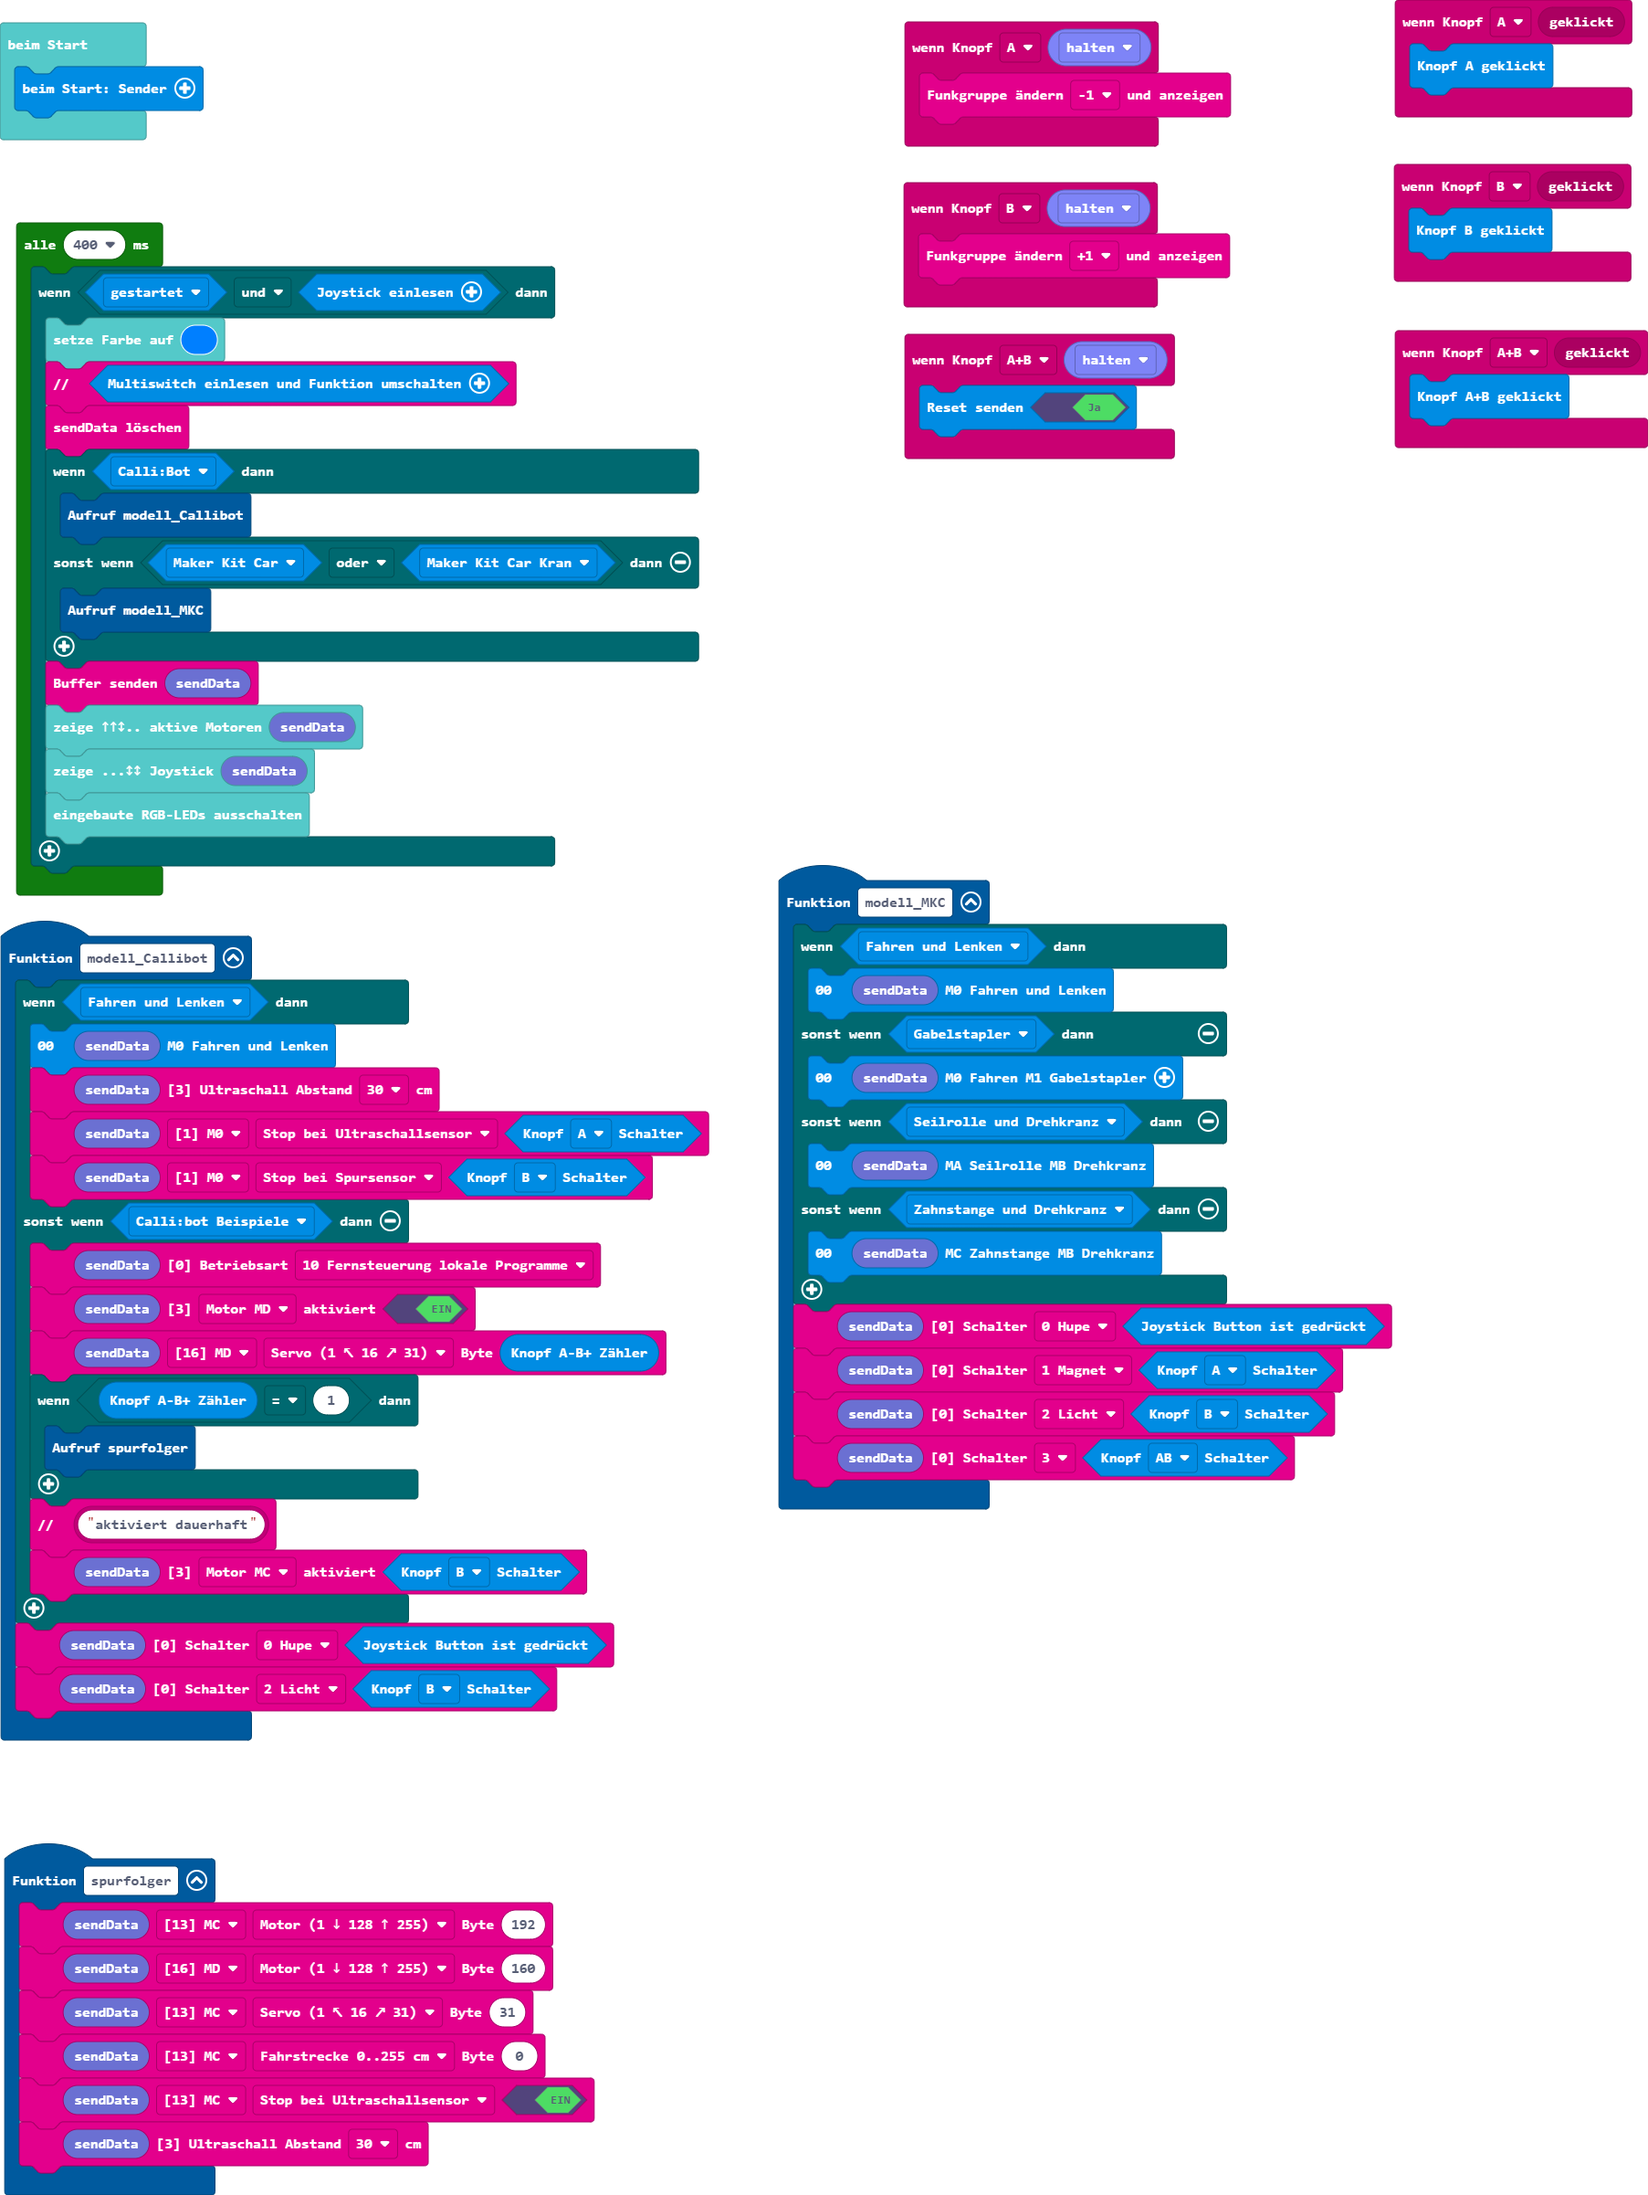
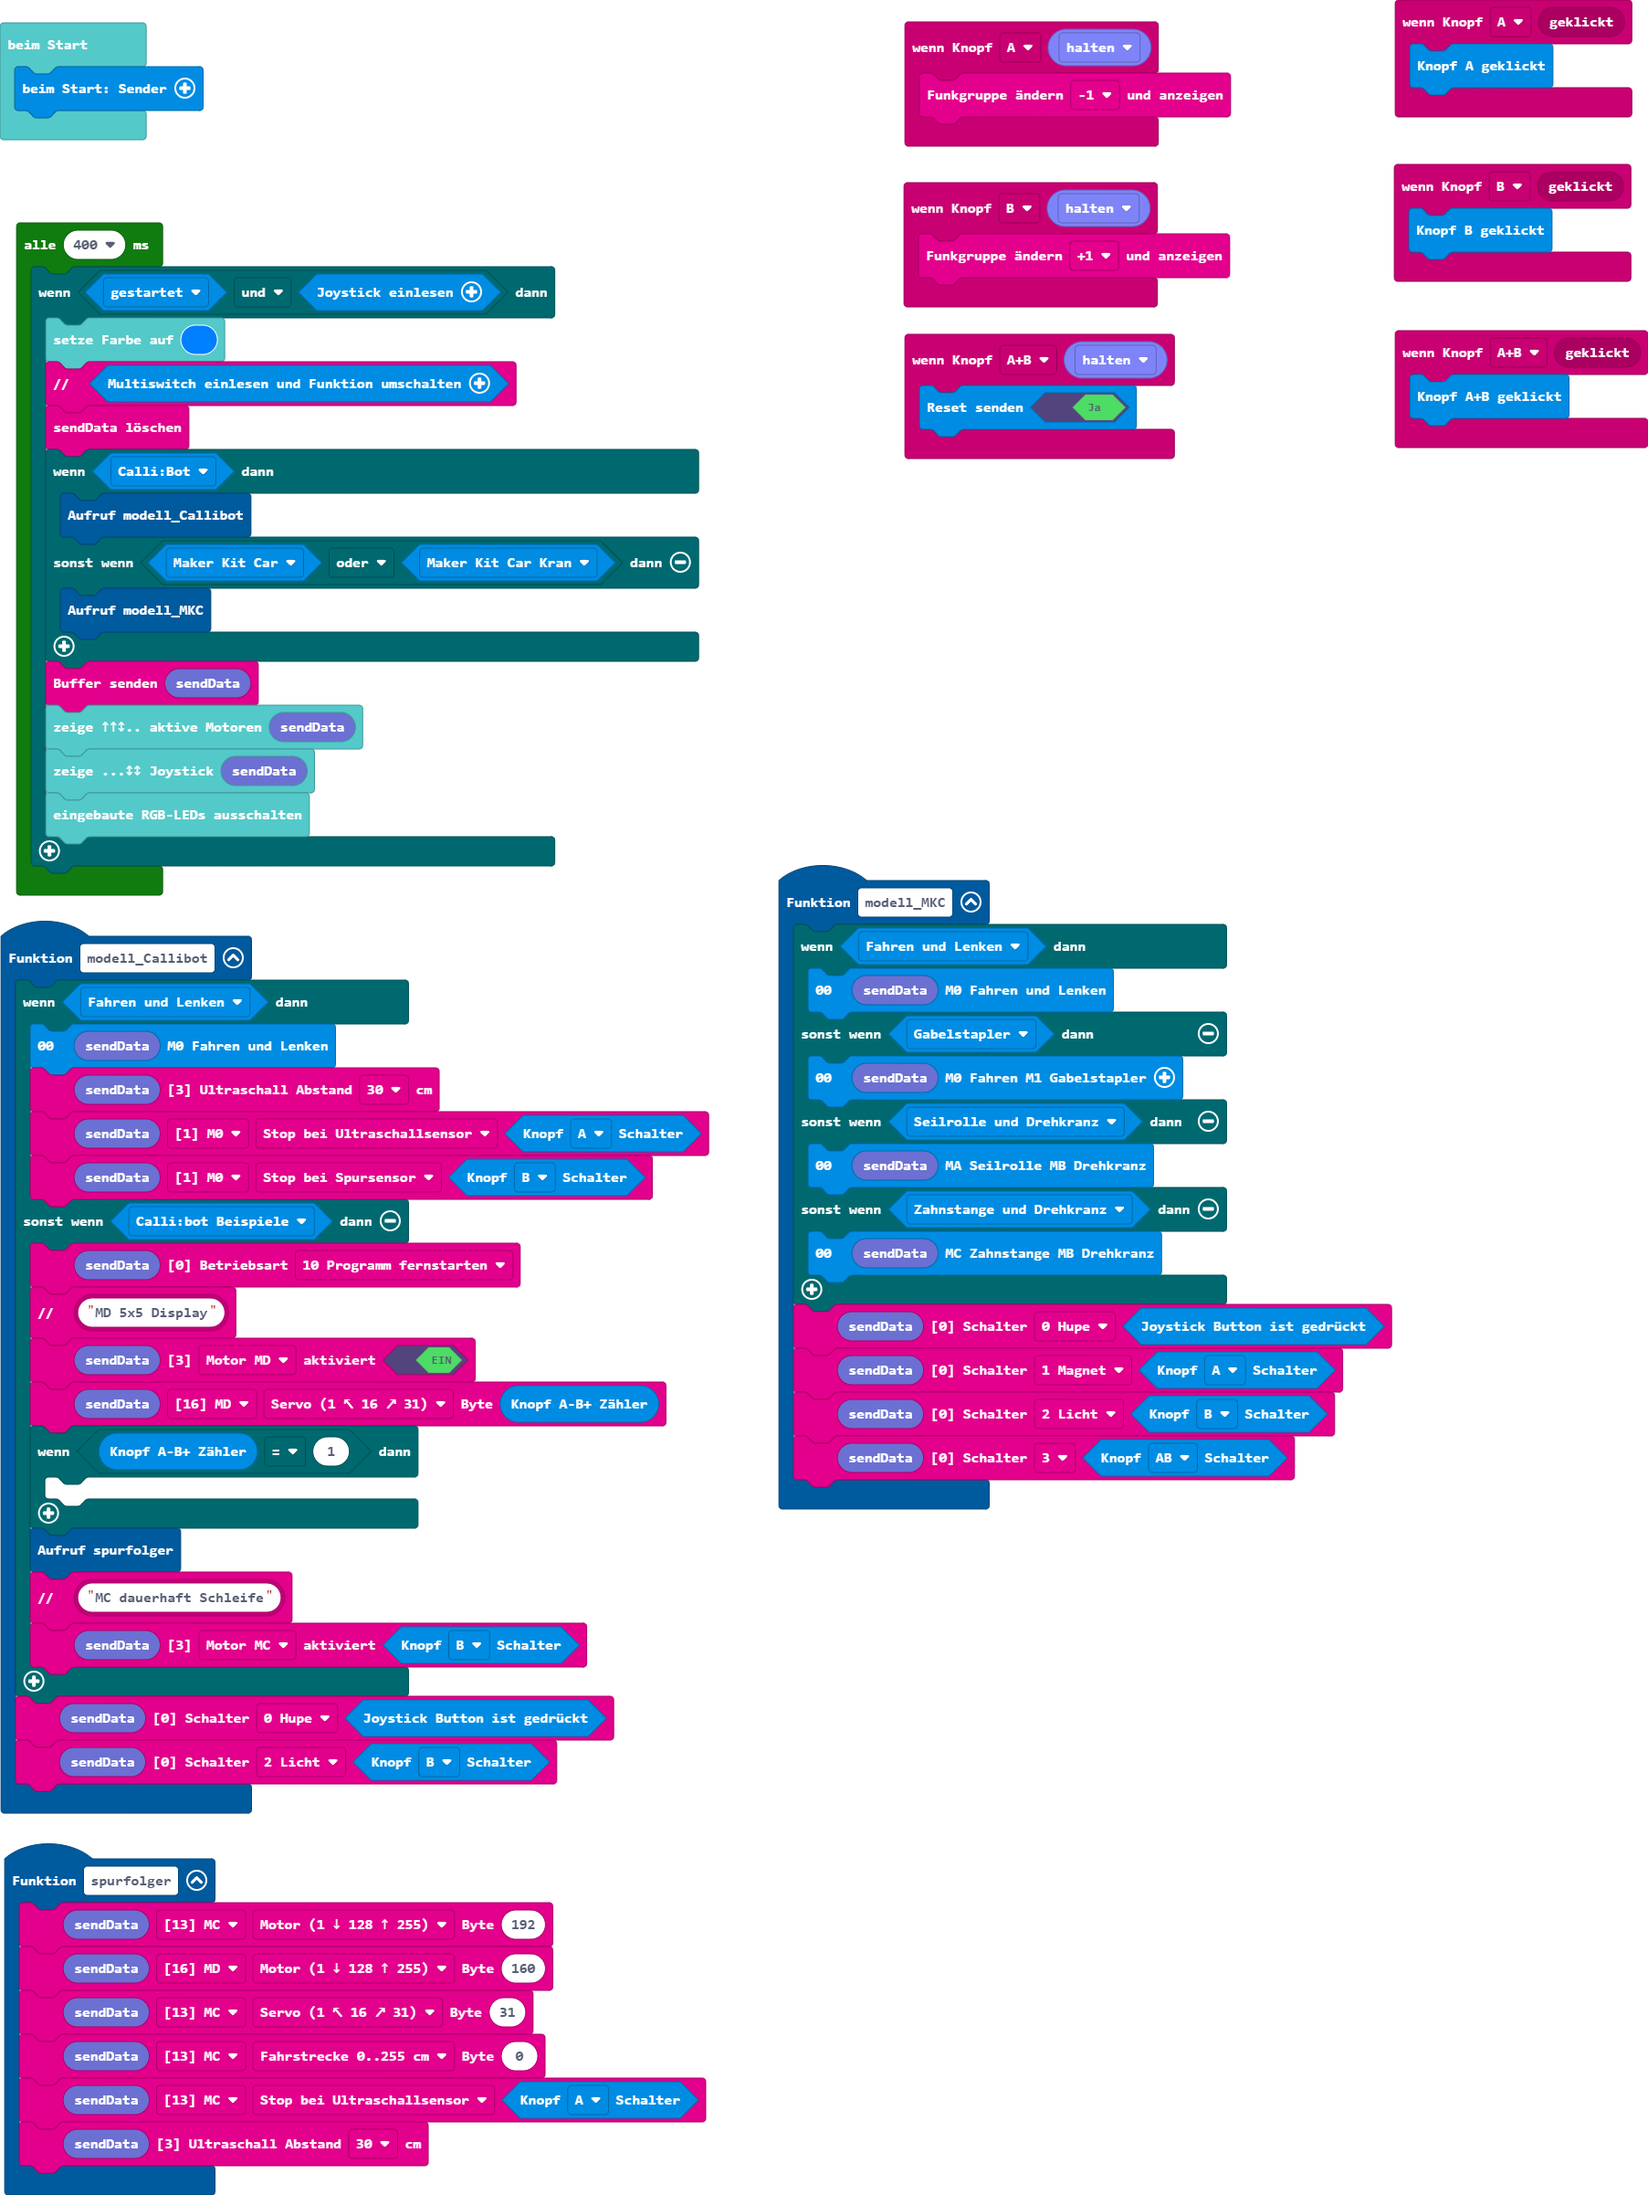
Aktualisiere main.blocks, main.ts

Changed region(s): [[0.0, 0.5618, 0.4033, 0.8427], [0.3102, 0.9363, 0.4343, 0.9675]]

diff --git a/main.ts b/main.ts
@@ -6,12 +6,14 @@ function modell_Callibot () {
         btf.setSensor(btf.btf_sendBuffer19(), btf.eBufferPointer.m0, btf.eSensor.b5Spur, sender.getButtonAB_Switch(sender.eButtonAB_Switch.B))
     } else if (sender.isFunktion(sender.eFunktion.mc_md_callibot_beispiele)) {
         btf.setBetriebsart(btf.btf_sendBuffer19(), btf.e0Betriebsart.p1Lokal)
+        btf.comment(btf.btf_text("MD 5x5 Display"))
         btf.setaktiviert(btf.btf_sendBuffer19(), btf.e3aktiviert.md, true)
         btf.setByte(btf.btf_sendBuffer19(), btf.eBufferPointer.md, btf.eBufferOffset.b1_Servo, sender.getButtonAB_Counter())
         if (sender.getButtonAB_Counter() == 1) {
-            spurfolger()
+        	
         }
-        btf.comment(btf.btf_text("aktiviert dauerhaft"))
+        spurfolger()
+        btf.comment(btf.btf_text("MC dauerhaft Schleife"))
         btf.setaktiviert(btf.btf_sendBuffer19(), btf.e3aktiviert.mc, sender.getButtonAB_Switch(sender.eButtonAB_Switch.B))
     }
     btf.setSchalter(btf.btf_sendBuffer19(), btf.e0Schalter.b0, sender.joystickButtonPosition())
@@ -52,7 +54,7 @@ function spurfolger () {
     btf.setByte(btf.btf_sendBuffer19(), btf.eBufferPointer.md, btf.eBufferOffset.b0_Motor, 160)
     btf.setByte(btf.btf_sendBuffer19(), btf.eBufferPointer.mc, btf.eBufferOffset.b1_Servo, 31)
     btf.setByte(btf.btf_sendBuffer19(), btf.eBufferPointer.mc, btf.eBufferOffset.b2_Fahrstrecke, 0)
-    btf.setSensor(btf.btf_sendBuffer19(), btf.eBufferPointer.mc, btf.eSensor.b6Abstand, true)
+    btf.setSensor(btf.btf_sendBuffer19(), btf.eBufferPointer.mc, btf.eSensor.b6Abstand, sender.getButtonAB_Switch(sender.eButtonAB_Switch.A))
     btf.setAbstand(btf.btf_sendBuffer19(), btf.e3Abstand.u3)
 }
 input.onButtonEvent(Button.A, btf.buttonEventValue(ButtonEvent.Hold), function () {
